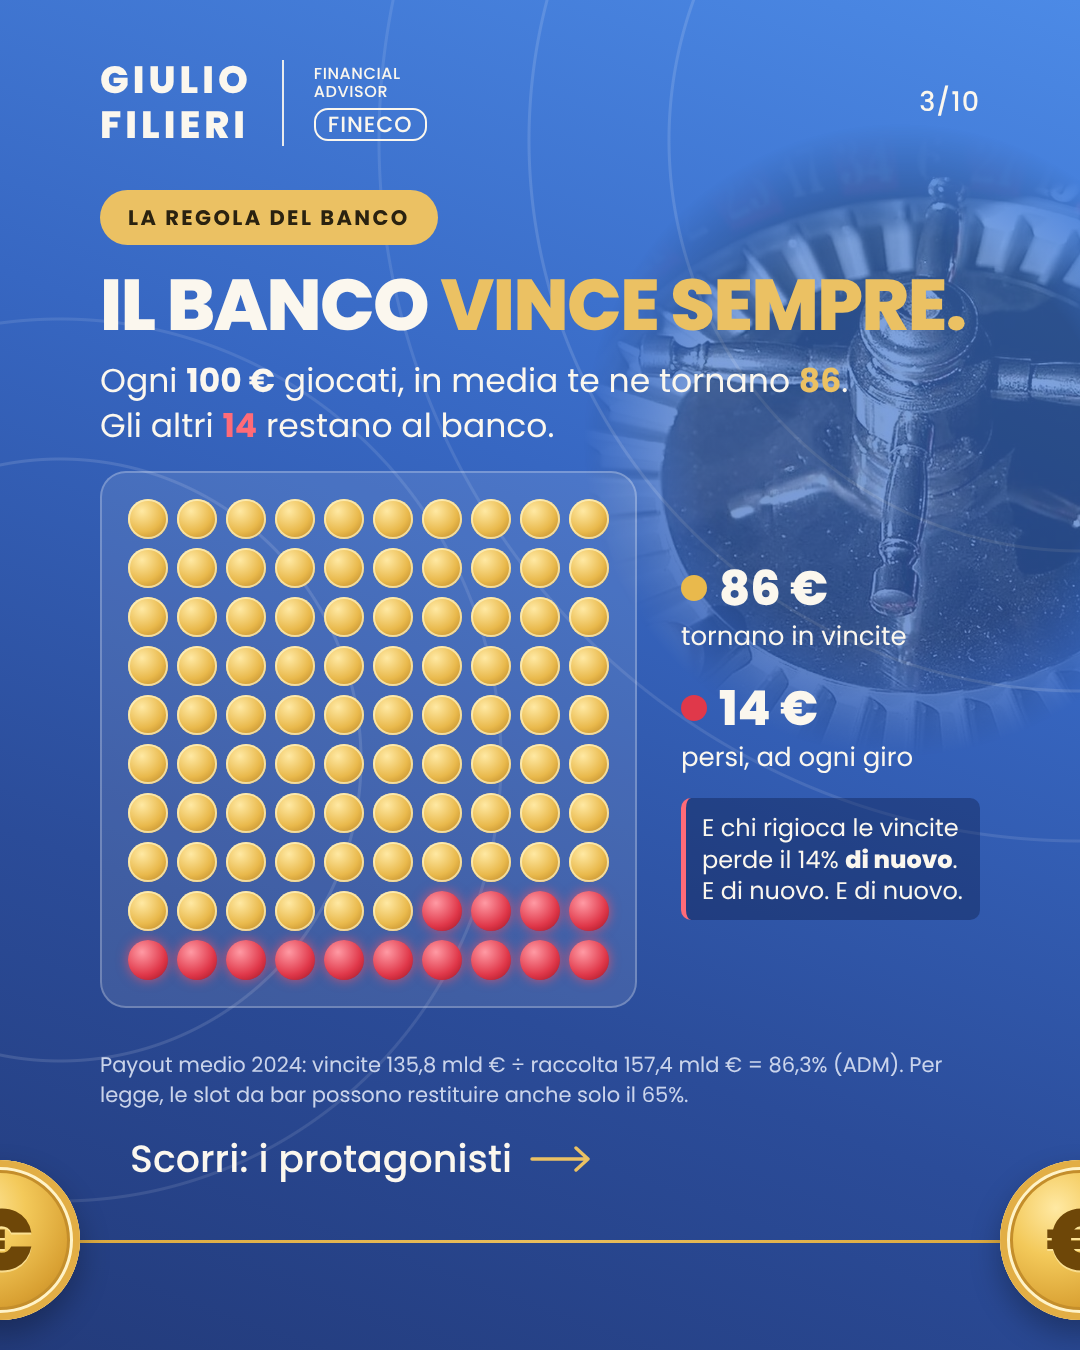
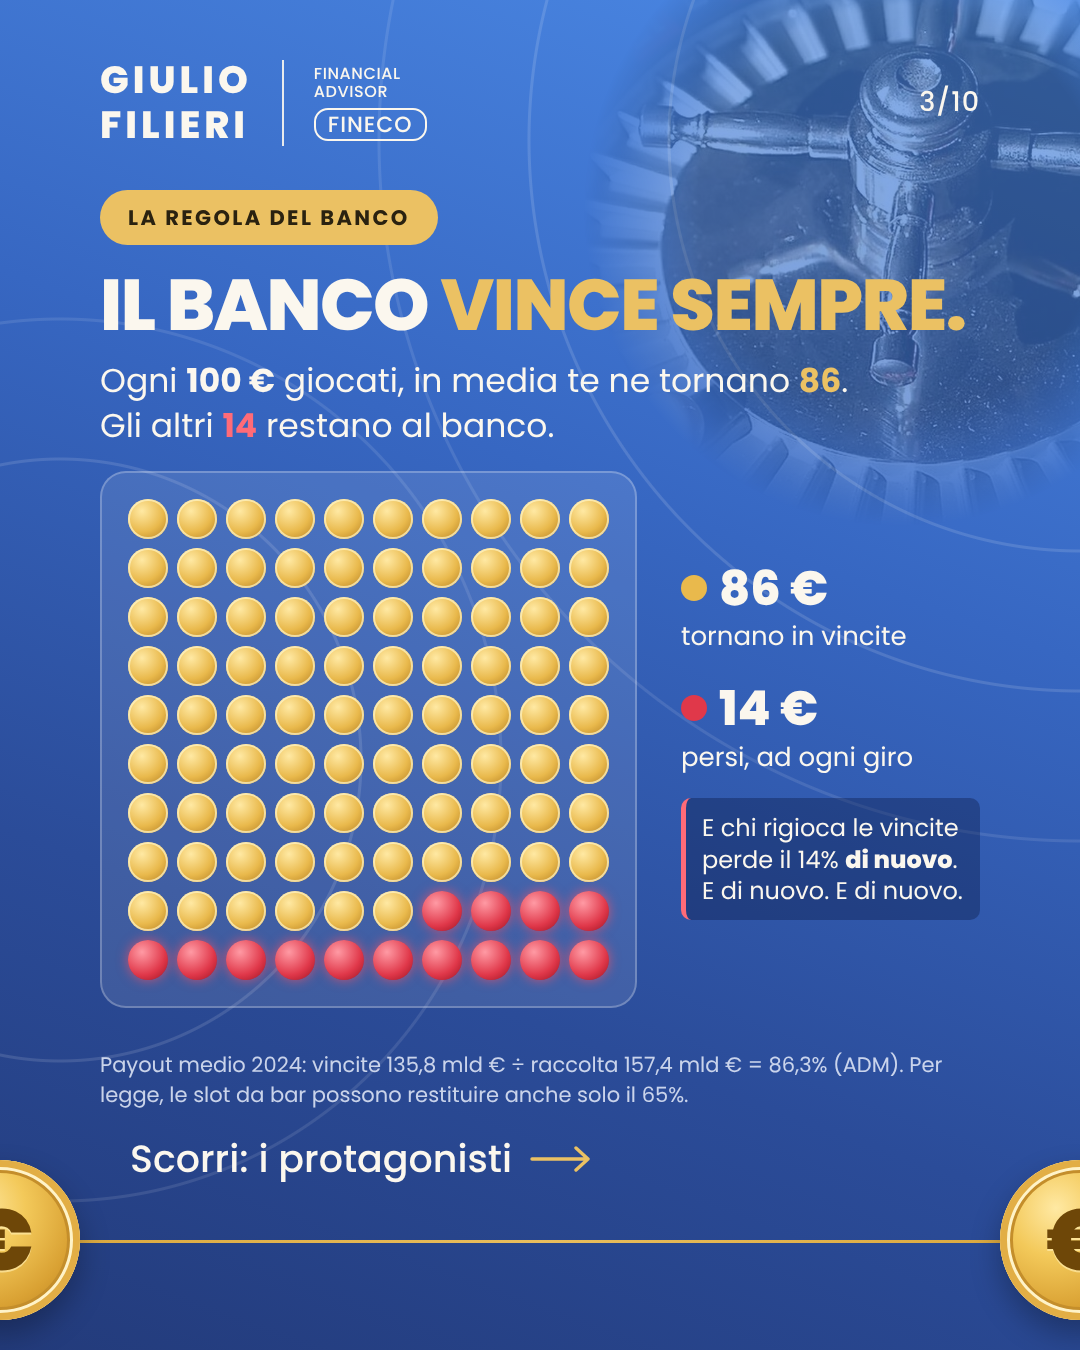
Slide 3: roulette di sfondo più in alto per leggibilità
Claude-Session: https://claude.ai/code/session_01VXFpsHmJ8FHR4UbCV1HPKM

Changed region(s): [[0.5806, 0.0, 1.0, 0.5289]]

diff --git a/caroselli/scommesse-vs-investimento/carosello.html b/caroselli/scommesse-vs-investimento/carosello.html
@@ -343,6 +343,7 @@ h1{position:absolute;left:100px;right:80px;font-weight:800;line-height:1.02;lett
 .r9b{padding:9px}
 .c9{padding:24px 2px;font-size:31px} .t9b{gap:14px}
 .c9{padding:20px 2px}
+.slide#s3 .bgphoto{top:-110px}
 </style></head><body>
 
 <section class="slide blue" id="s1">

diff --git a/caroselli/scommesse-vs-investimento/style.css b/caroselli/scommesse-vs-investimento/style.css
@@ -340,3 +340,4 @@ h1{position:absolute;left:100px;right:80px;font-weight:800;line-height:1.02;lett
 .r9b{padding:9px}
 .c9{padding:24px 2px;font-size:31px} .t9b{gap:14px}
 .c9{padding:20px 2px}
+.slide#s3 .bgphoto{top:-110px}
